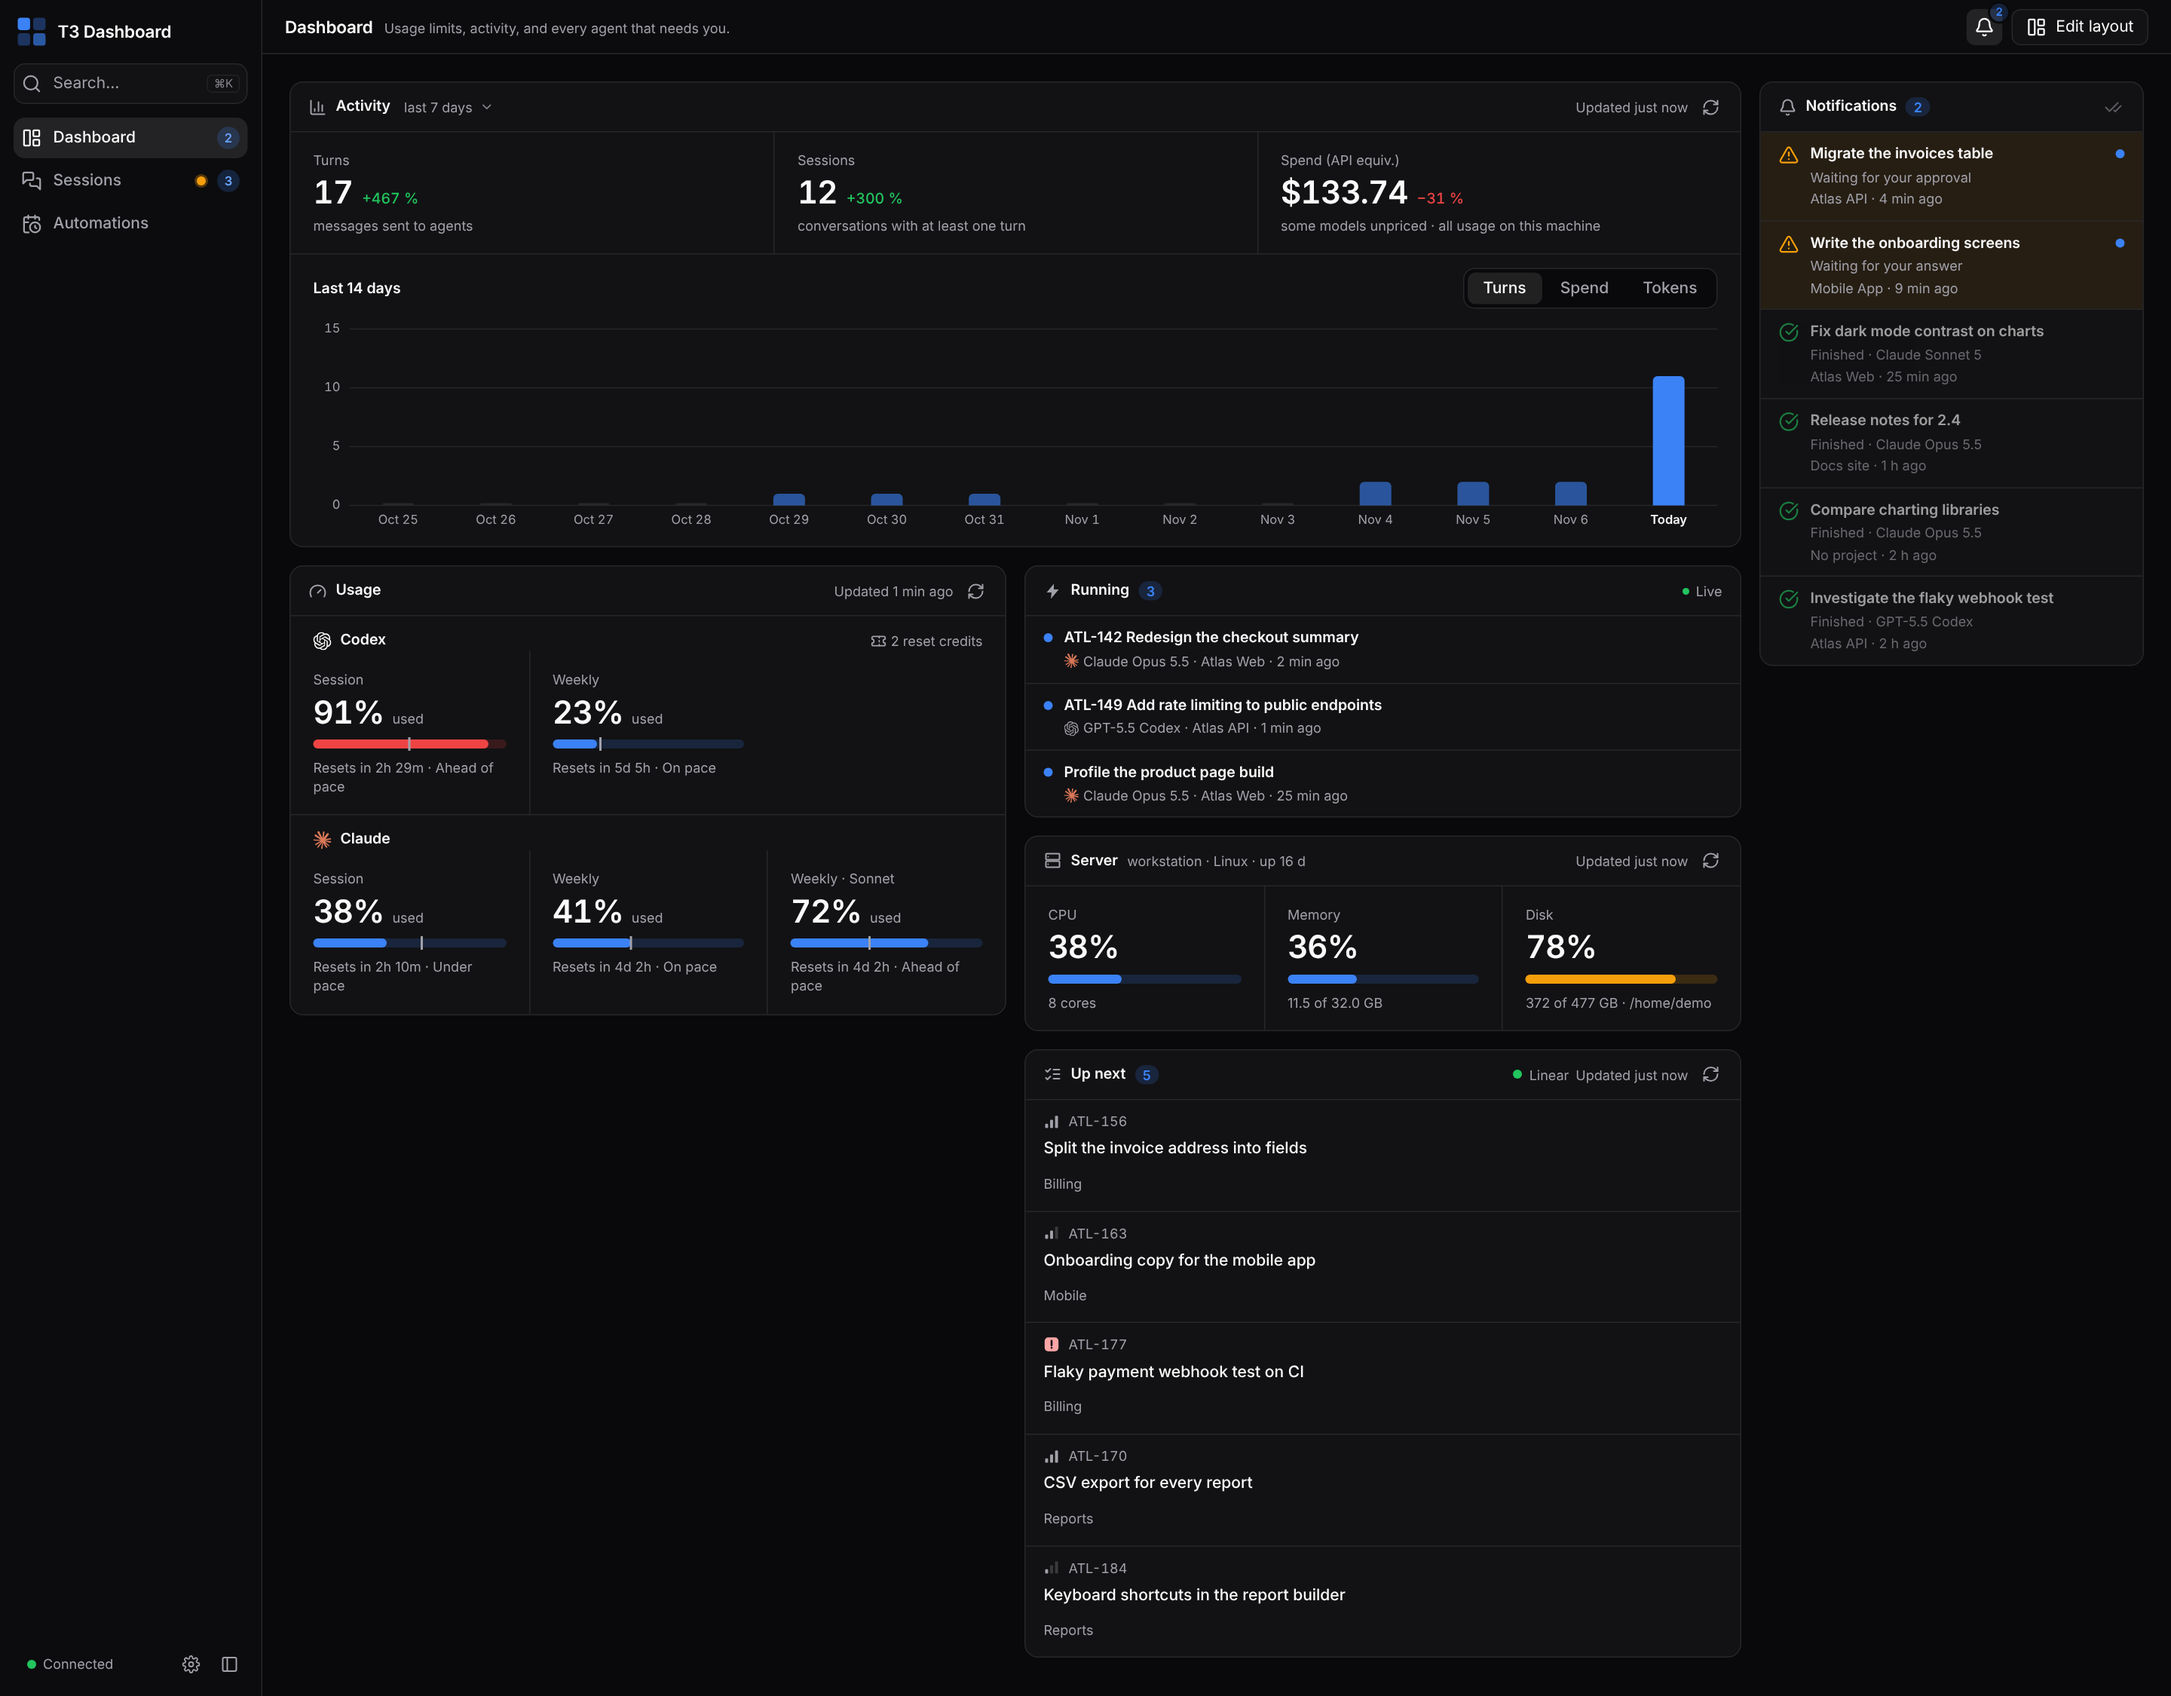
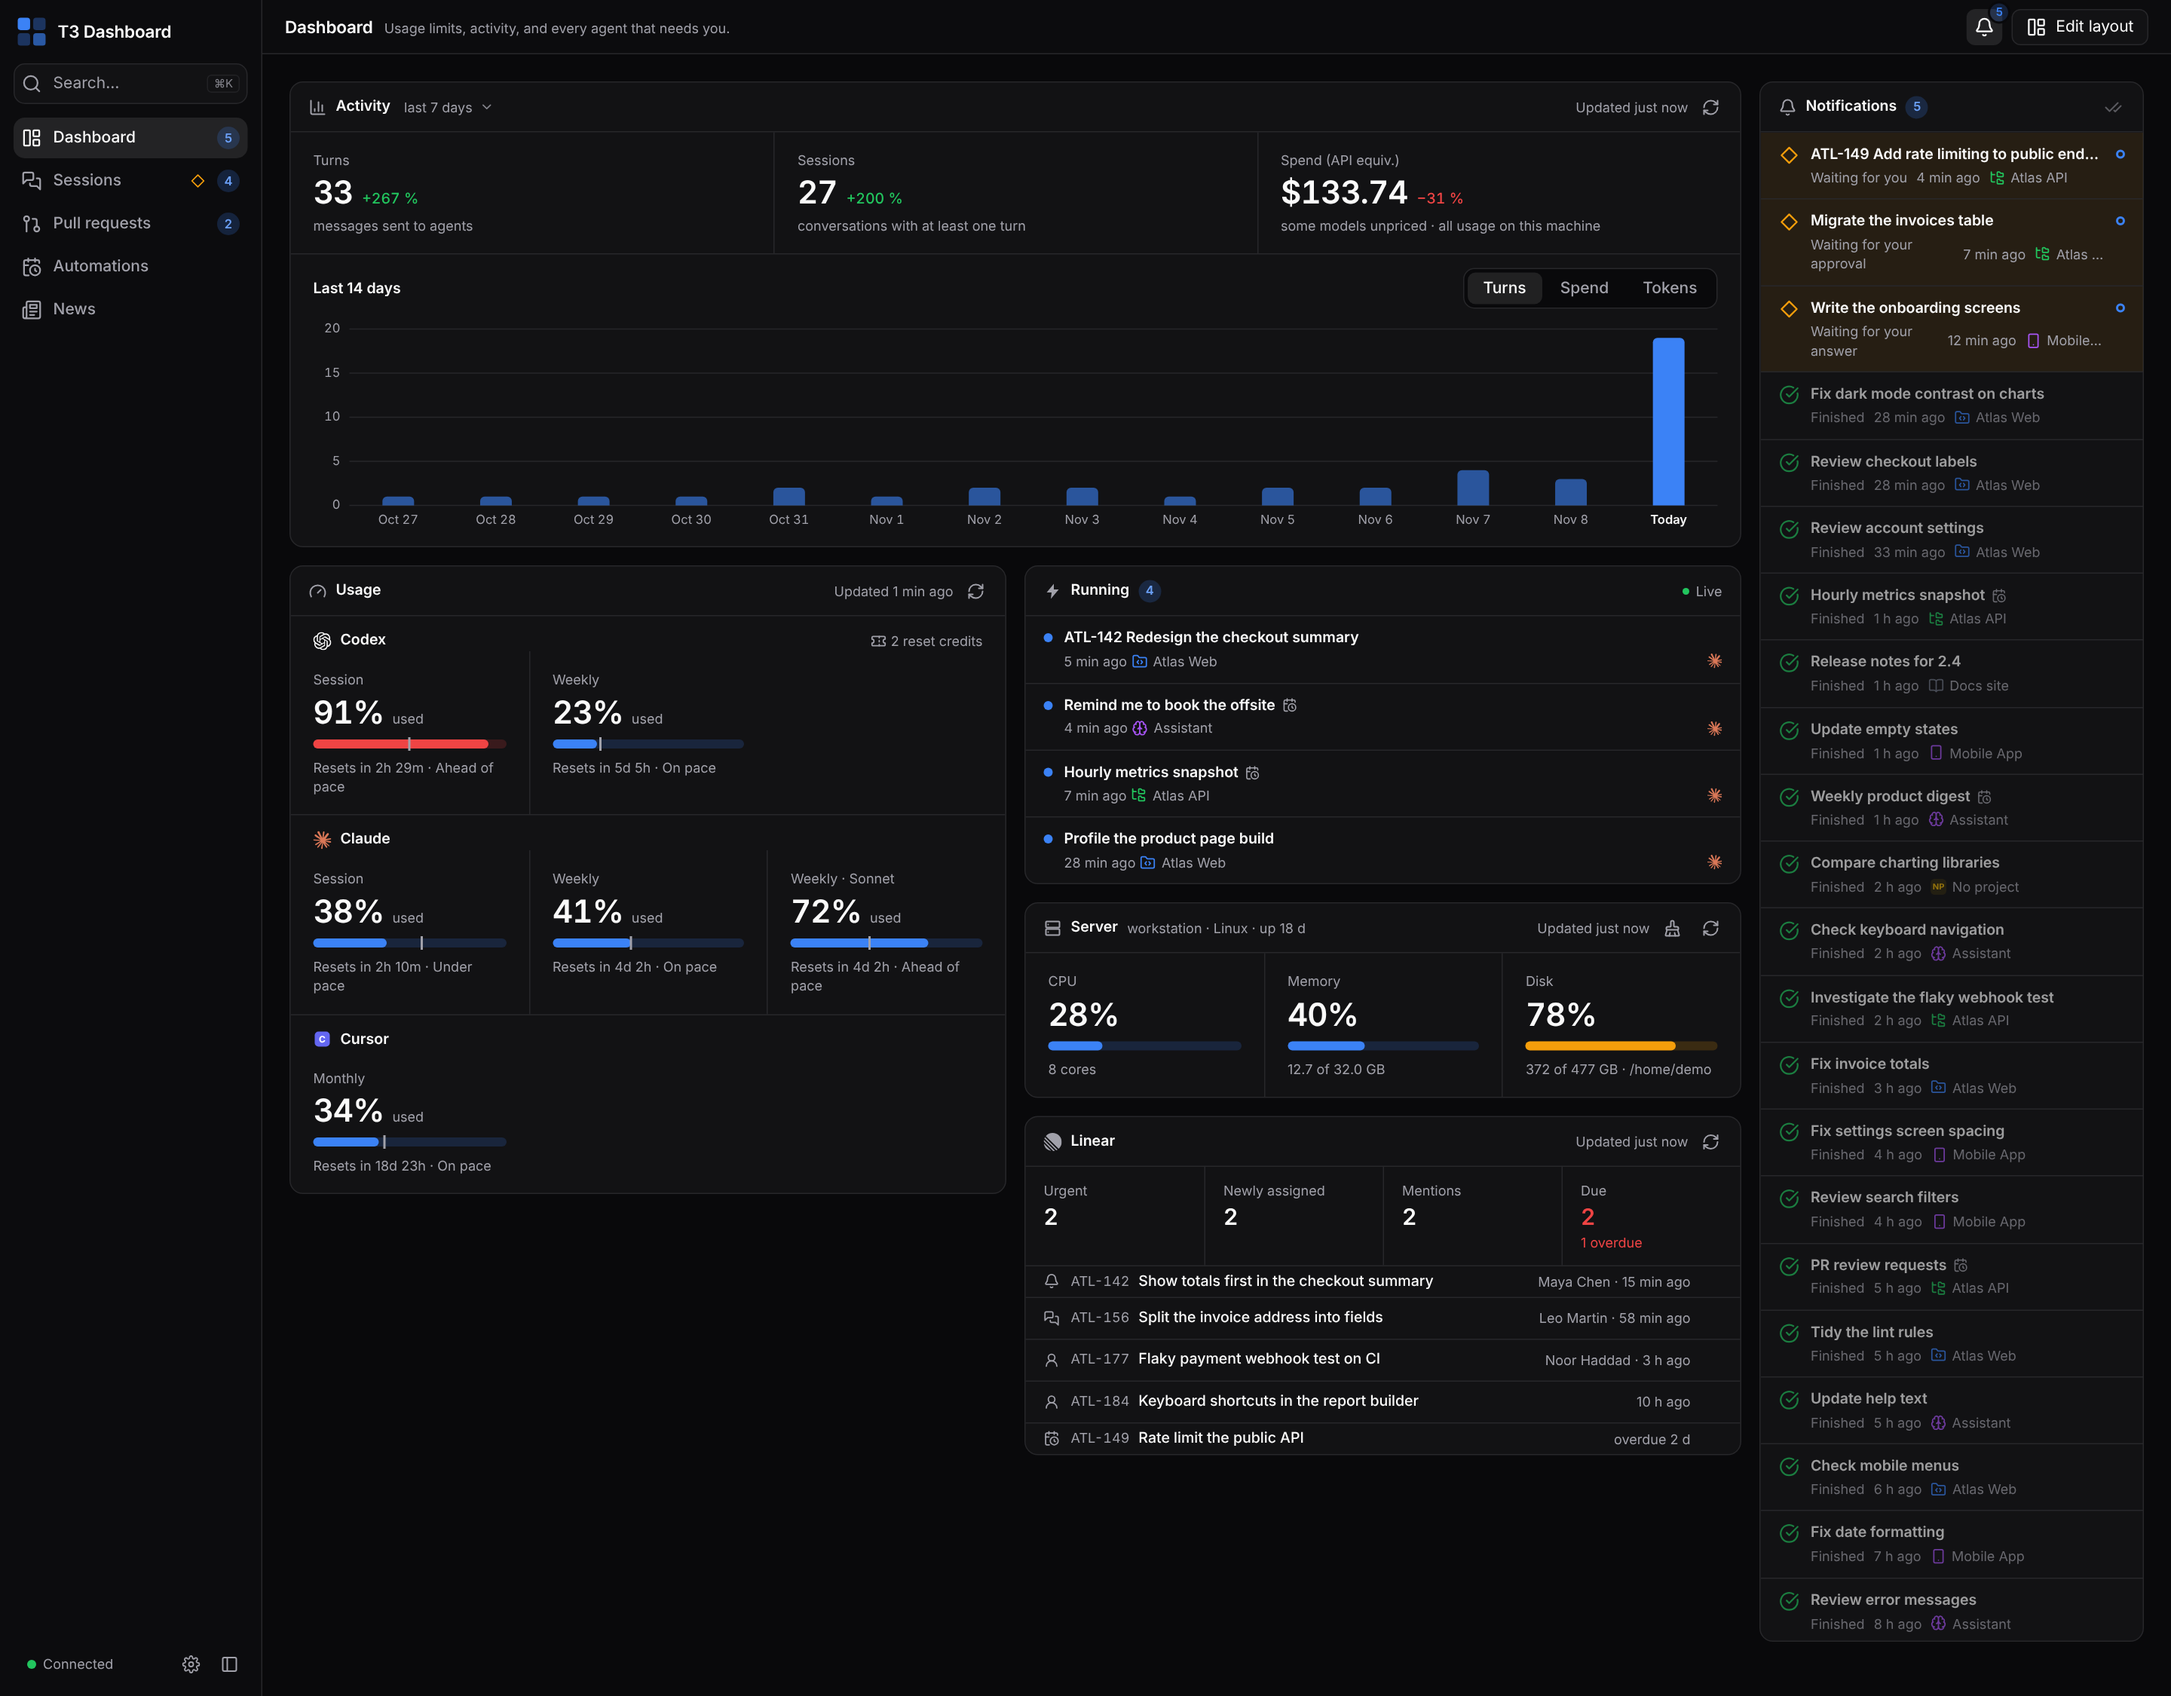
docs(readme): cover pull requests and news with fresh screenshots

diff --git a/README.md b/README.md
@@ -1,6 +1,8 @@
 # t3-dashboard
 
-t3-dashboard is a web dashboard on top of T3 Code. It shows all your coding agents on one screen: every provider that T3 Code runs. You follow their work, reply to them and start new sessions. Dashboard shows the usage limits of your providers, the CPU, memory and disk of the server, your activity, a Notifications panel with what needs you, the running agents and a Linear card with your urgent, due and unread items: you can assign an issue to an agent. The dashboard runs in the background on your computer and opens in your browser.
+t3-dashboard is a web dashboard for T3 Code. Follow coding agents from every provider, reply to them and start sessions in your browser.
+
+Review GitHub pull request diffs, manage automations and read daily or weekly tech news. Track provider limits, server resources, activity and Linear issues from one dashboard.
 
 ## Screenshots
 
@@ -11,6 +13,14 @@ t3-dashboard is a web dashboard on top of T3 Code. It shows all your coding agen
 **Sessions**: many conversations open side by side
 
 <picture><source media="(prefers-color-scheme: dark)" srcset="docs/screenshots/sessions-dark.png"><img alt="Sessions" src="docs/screenshots/sessions.png"></picture>
+
+**Pull requests**: checks, reviews and linked sessions
+
+<picture><source media="(prefers-color-scheme: dark)" srcset="docs/screenshots/pulls-dark.png"><img alt="Pull requests grouped by repository" src="docs/screenshots/pulls.png"></picture>
+
+**News**: tech articles with source links
+
+<picture><source media="(prefers-color-scheme: dark)" srcset="docs/screenshots/news-dark.png"><img alt="News article and archive" src="docs/screenshots/news.png"></picture>
 
 **Automations**
 
@@ -34,10 +44,18 @@ The screenshots come from the demo mode: the projects, agents and conversations 
 **Sessions**
 
 - Follow several conversations side by side, in columns that scroll sideways. Switch to a grid of two rows.
-- Send a message, attach images, change the model, stop a run.
+- Send messages and files, change the model, queue messages during a run, or stop it.
+- Stash drafts and restore them in another session. Open linked pull requests from a session.
+- Start a session in the current checkout or a new worktree, with a branch you choose.
 - Reply to the approvals and questions of the agents.
 - Add a T3 project from a folder (the folder is created if it does not exist). Empty projects show in the list, muted, at the end. Edit a project's title, folder and icon, or delete it with its sessions, from the "…" menu of its row.
 - See the images, videos and HTML pages that the agent shows.
+
+**Pull requests**
+
+- Find your open pull requests and those that need your review. Filter by repository, ownership or unread status.
+- Read file diffs with syntax highlighting. Inspect checks and reviews, collapse test files and open linked sessions.
+- Use GitHub CLI (`gh`) authentication on the server. The page is read only; approve, comment and merge on GitHub.
 
 **Automations**
 
@@ -45,9 +63,10 @@ The screenshots come from the demo mode: the projects, agents and conversations 
 
 **News**
 
-- Get a daily article with the latest tech news: a T3 routine asks an agent to search the web and write it. Read it as an article, on a computer or a phone. Pick the time, language and model in News settings.
+- Generate daily or weekly tech articles through a T3 routine, or select "Run now". Choose the schedule, language and model.
+- Search the article archive, follow source links and track unread articles across devices. Read on a computer or phone.
 
-The New Session button (key `N`) starts a session in a T3 project, or in "No project". It uses the default model and the favorites of T3 Code. Each screen is described in [docs/usage.md](docs/usage.md).
+The New Session button (`Ctrl+N`, or `Cmd+N` on Mac) starts a session in a T3 project, or in "No project". It uses the default model and the favorites of T3 Code. Each screen is described in [docs/usage.md](docs/usage.md).
 
 ## Install
 
@@ -73,6 +92,7 @@ The script downloads the binary and checks its SHA-256 sum. Then it registers a 
 2. If T3 Code is not installed or not running, a screen shows how to install or start it. Do that, then click "Retry".
 3. If the token cannot be created, the screen gives a command. Run it, then paste the token.
 4. Optional: in Settings, paste a Linear API key to show the Linear card on the Dashboard.
+5. For pull requests, install GitHub CLI on the server. Run `gh auth login` as the dashboard service user.
 
 More details in [docs/install.md](docs/install.md).
 
@@ -82,6 +102,7 @@ More details in [docs/install.md](docs/install.md).
 | --- | --- | --- |
 | T3 Code local API | Yes | Reads the projects, sessions, conversations and scheduled tasks. Sends the messages, the replies and the new agents. |
 | Linear API key | No | Reads the issues assigned to you, for the Dashboard. |
+| GitHub CLI | No | Reads pull requests, diffs, checks and reviews through your `gh` login. |
 | GitHub Releases | No | Looks for a new version and downloads it when you click. |
 
 ## How it works

diff --git a/docs/development.md b/docs/development.md
@@ -25,7 +25,7 @@ bun run build   # single binary in dist/t3-dashboard
 
 ## Demo mode
 
-`bun run demo` starts the dashboard with made-up data: projects, agents, conversations, Linear tickets and routines. It does not contact T3 Code or Linear. The screenshots in `docs/screenshots/` come from this mode. Start it again to make new screenshots after a change to the interface. Each screenshot has a light file (`dashboard.png`) and a dark file (`dashboard-dark.png`), on a 1920x1080 screen with a device scale of 1.5 (the Dashboard one is 1920x1500, to show every card).
+`bun run demo` starts the dashboard with made-up data: projects, agents, conversations, Linear tickets, pull requests, news articles and routines. It does not contact T3 Code, Linear or GitHub. The screenshots in `docs/screenshots/` come from this mode. Start it again to make new screenshots after a change to the interface. Each screenshot has a light file (`dashboard.png`) and a dark file (`dashboard-dark.png`), on a 1920x1080 screen with a device scale of 1.5 (the Dashboard one is 1920x1500, to show every card).
 
 ## Publish a release
 
